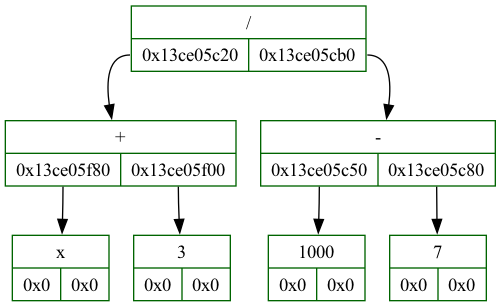
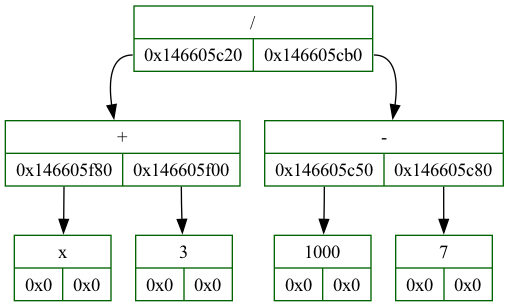
include

diff --git a/log/dump.html b/log/dump.html
@@ -3,8 +3,8 @@
 	ERROR: NO_ERROR
 	Dump called from src/main.cpp:main:24
 	Tree tree born in src/main.cpp:main:17
-	Binary Expression Tree[0x13ce05d90]{
-		root = 0x13ce05ce0
+	Binary Expression Tree[0x146605d90]{
+		root = 0x146605ce0
 		 <img src = 0.png width = 50%>
 
 </pre>

diff --git a/include/bin_exp_tree.h b/include/bin_exp_tree.h
@@ -22,6 +22,7 @@ enum Operations{
     COS,
     TAN,
     COT,
+    UNKNOWN,
 };
 
 union NodeValue{
